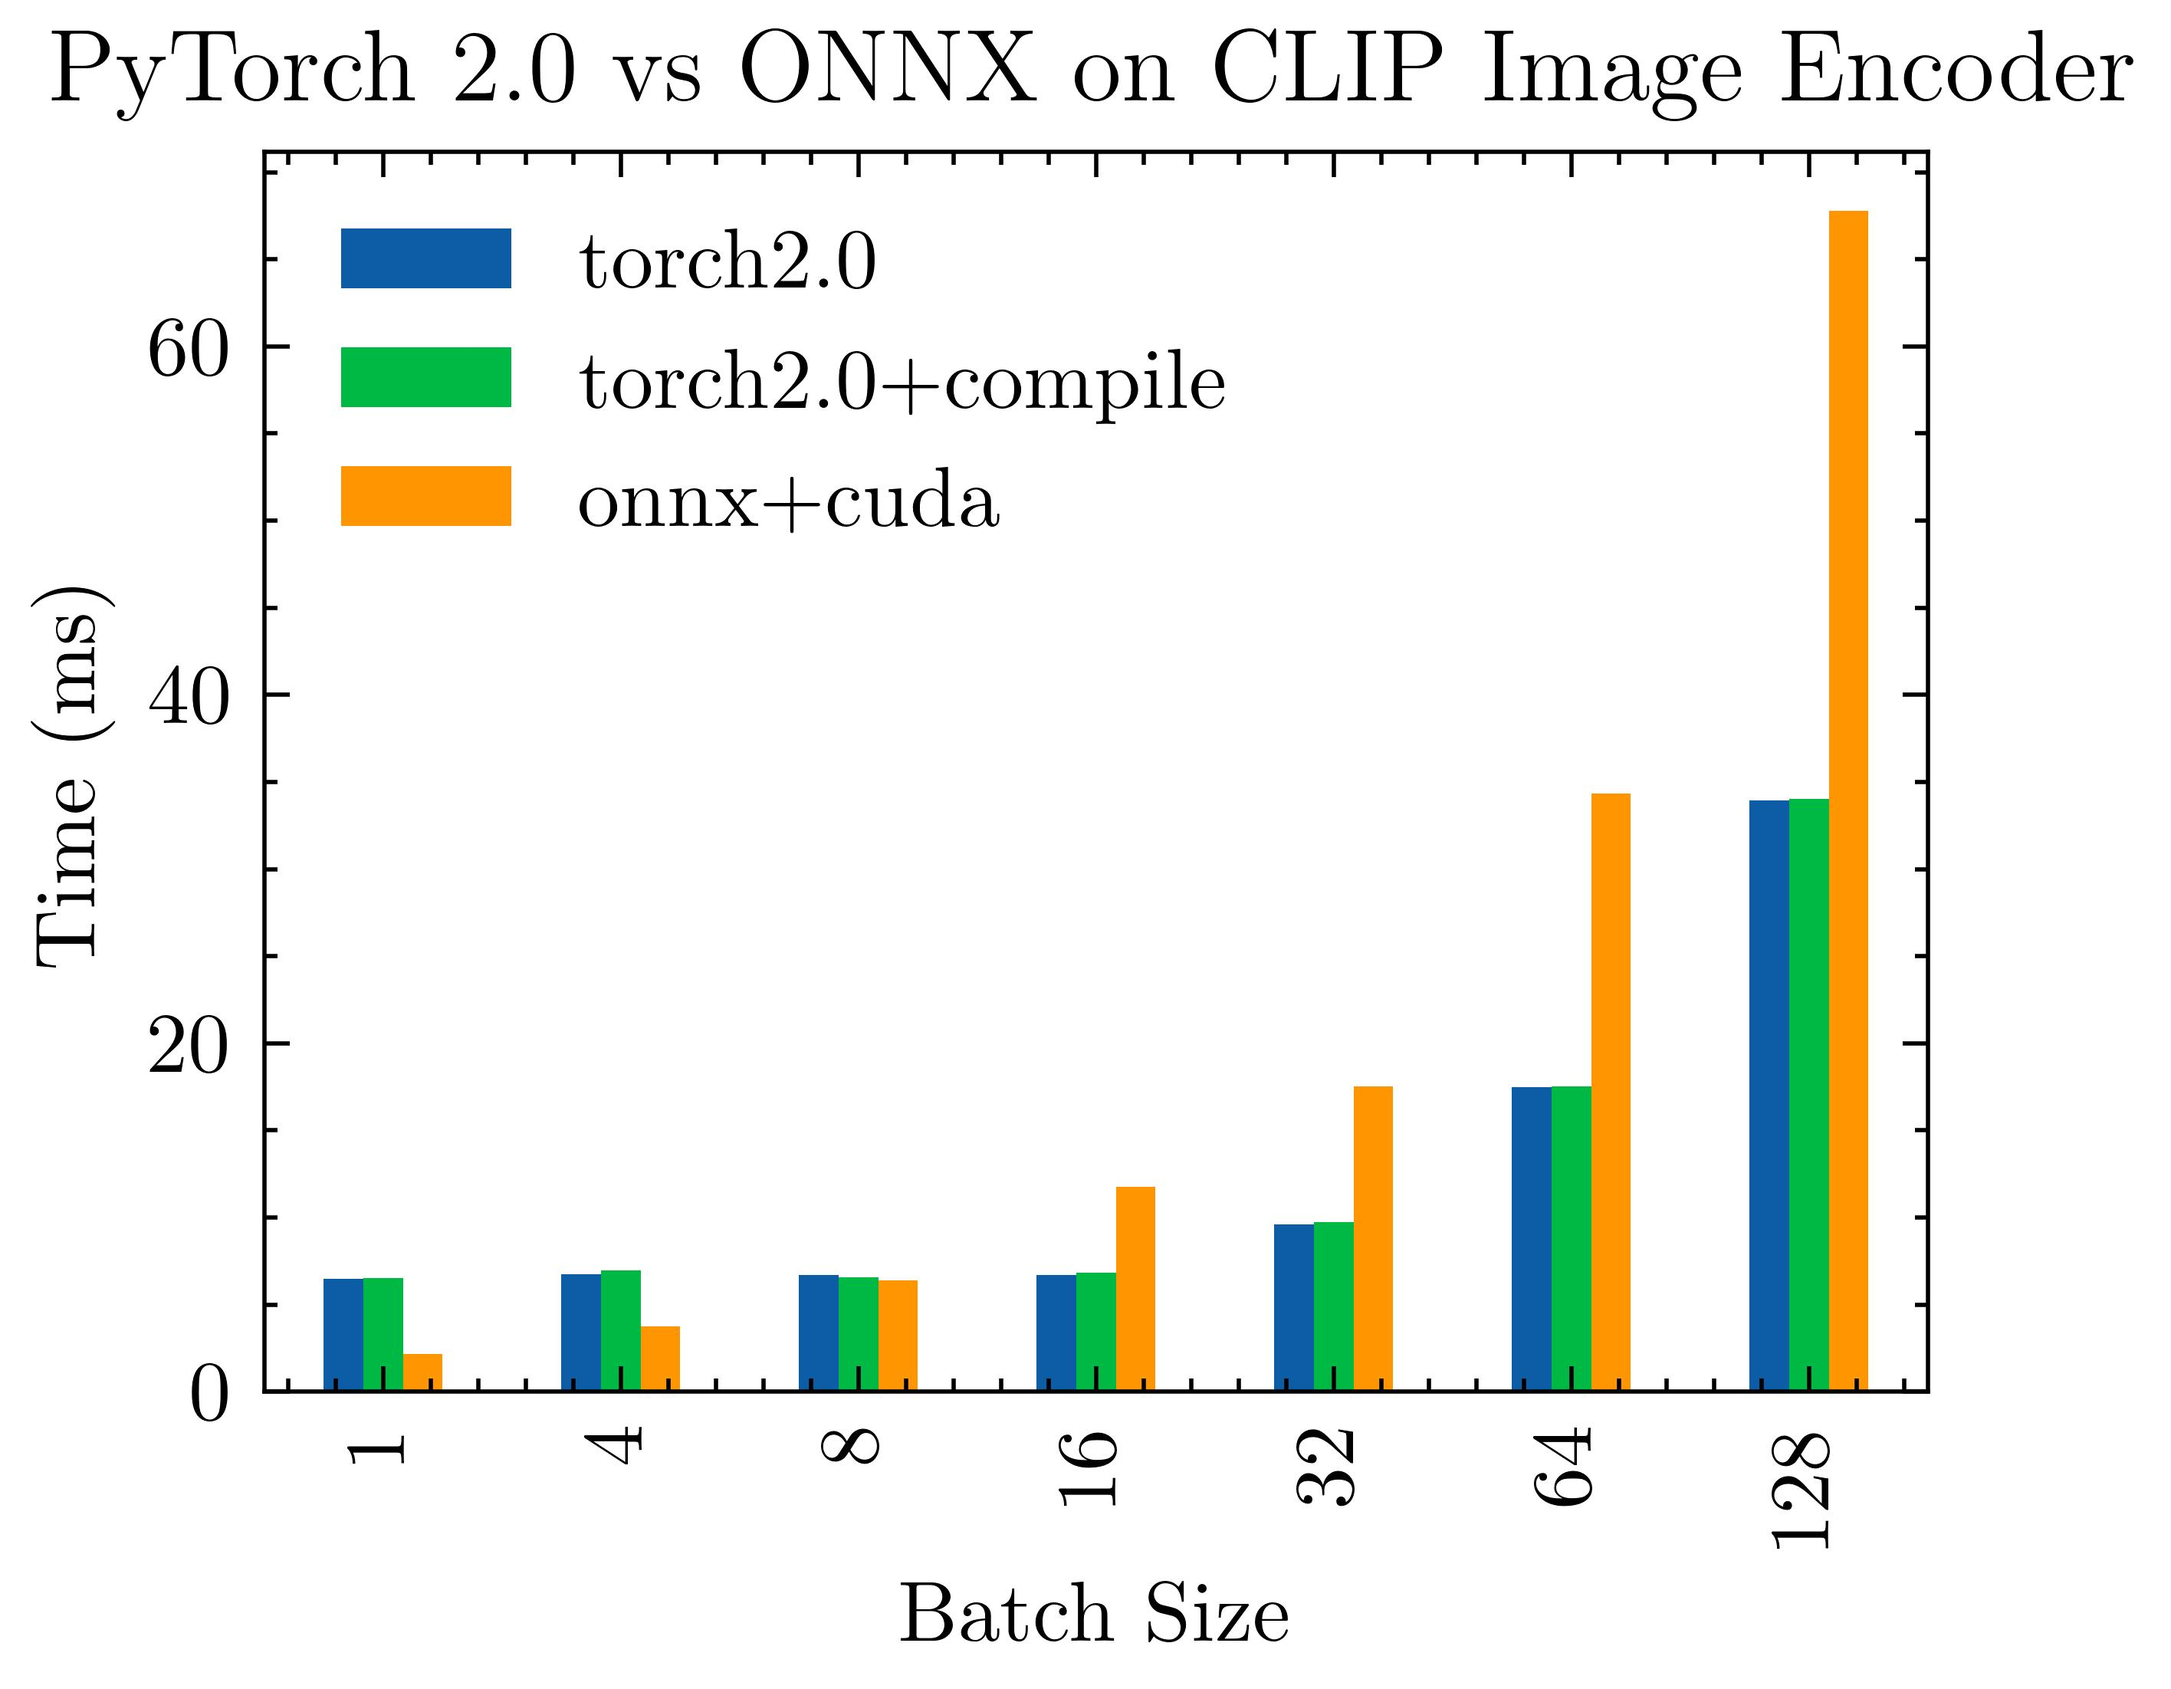
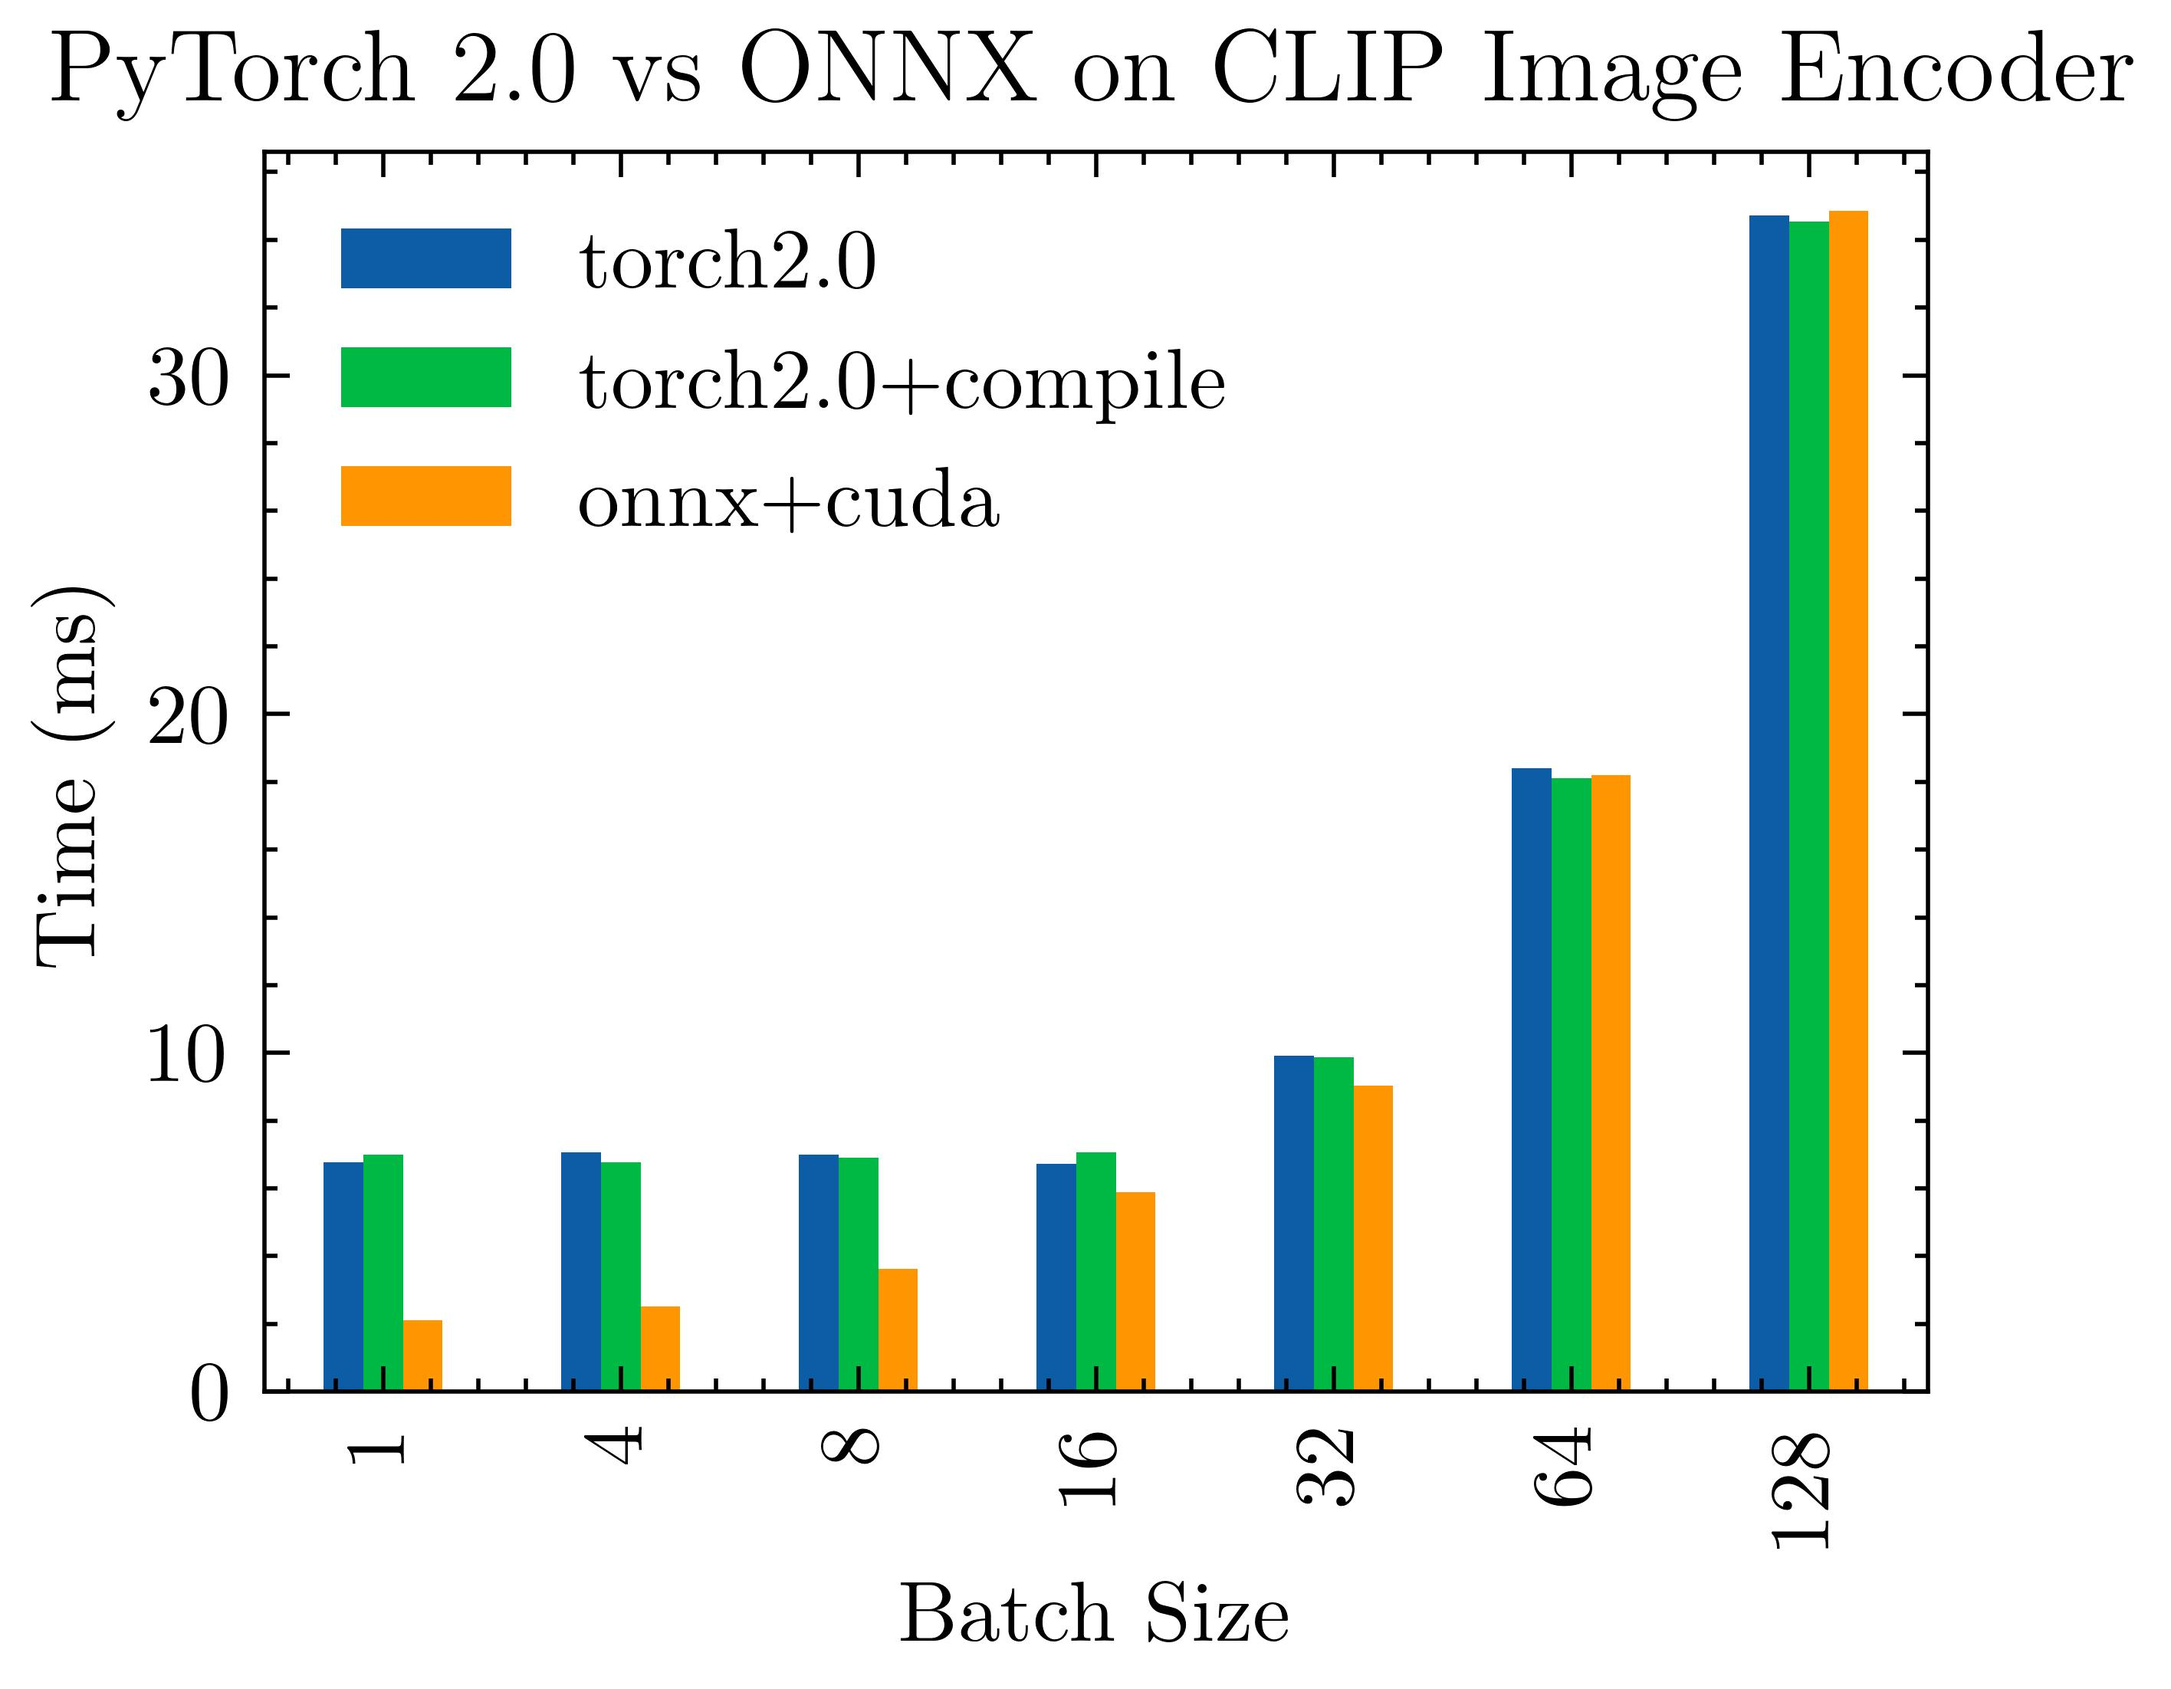
onnx now running in float16

diff --git a/src/clip_export_onnx.py b/src/clip_export_onnx.py
@@ -3,32 +3,31 @@ import onnxruntime as ort
 import torch
 
 MODEL_NAME = "ViT-B/32"
-model, preprocess = clip.load(MODEL_NAME, jit=True, device="cpu")
-
-image_encoder = model.visual
-print(preprocess)
-x = torch.randn(1, 3, 224, 224, device="cpu")
-
 model_name = "ViT-B-32.onnx"
-# # Export the model
-torch.onnx.export(
-    image_encoder,  # model being run
-    x,  # model input (or a tuple for multiple inputs)
-    model_name,  # where to save the model (can be a file or file-like object)
-    opset_version=16,
-    export_params=True,  # store the trained parameter weights inside the model file
-    do_constant_folding=True,  # whether to execute constant folding for optimization
-    input_names=["image"],  # the model's input names
-    output_names=["output"],  # the model's output names
-    dynamic_axes={
-        "image": {0: "batch_size"},  # variable length axes
-        "output": {0: "batch_size"},
-    },
-)
+model, preprocess = clip.load(MODEL_NAME, jit=False, device="cuda")
+
+with torch.autocast("cuda", dtype=torch.float16):
+    image_encoder = model.visual.eval()
+    x = torch.randn(1, 3, 224, 224, device="cuda")
+    # # Export the model
+    torch.onnx.export(
+        image_encoder,  # model being run
+        x,  # model input (or a tuple for multiple inputs)
+        model_name,  # where to save the model (can be a file or file-like object)
+        opset_version=16,
+        export_params=True,  # store the trained parameter weights inside the model file
+        do_constant_folding=True,  # whether to execute constant folding for optimization
+        input_names=["image"],  # the model's input names
+        output_names=["output"],  # the model's output names
+        dynamic_axes={
+            "image": {0: "batch_size"},  # variable length axes
+            "output": {0: "batch_size"},
+        },
+    )
 
 # let's check
 print("Checking")
-
-ort_session = ort.InferenceSession(model_name, providers=["CPUExecutionProvider"])
-outputs = ort_session.run(None, {"image": x.numpy()})
-print(outputs[0].shape)
+x = torch.randn(1, 3, 224, 224, device="cuda")
+ort_session = ort.InferenceSession(model_name, providers=["CUDAExecutionProvider"])
+outputs = ort_session.run(None, {"image": x.cpu().numpy()})
+print(outputs[0].shape, outputs[0].dtype)

diff --git a/src/main.py b/src/main.py
@@ -8,6 +8,7 @@ import onnxruntime as ort
 import pandas as pd
 import torch
 from tqdm import tqdm
+import numpy as np
 
 torch.backends.cudnn.benchmark = True
 
@@ -75,7 +76,7 @@ class ClipTorchBenchmark(Benchmark):
 
     @torch.no_grad()
     def run(self):
-        self.model.encode_image(self.image)
+        out = self.model.encode_image(self.image)
 
 
 class ClipTorchCompiledBenchmark(ClipTorchBenchmark):
@@ -100,12 +101,12 @@ class ClipOnnxBenchmark(Benchmark):
         x = torch.randn((batch_size, 3, 224, 224)).numpy()
         # see https://onnxruntime.ai/docs/api/python/api_summary.html#data-on-device
         image = ort.OrtValue.ortvalue_from_numpy(x, device_id, 0)
-        output = ort.OrtValue.ortvalue_from_shape_and_type(
-            [batch_size, 512], x.dtype, device_id, 0
+        self.output = ort.OrtValue.ortvalue_from_shape_and_type(
+            [batch_size, 512], np.float16, device_id, 0
         )
         self.io_binding = self.session.io_binding()
         self.io_binding.bind_ortvalue_input("image", image)
-        self.io_binding.bind_ortvalue_output("output", output)
+        self.io_binding.bind_ortvalue_output("output", self.output)
 
     def run(self):
         self.session.run_with_iobinding(self.io_binding)

diff --git a/README.md b/README.md
@@ -1,5 +1,8 @@
 # PyTorch 2.0 benchmark
 
+> **Warning**
+> ONNX seems to be running on float16 like it should be but I am not 100% sure
+
 [PyTorch 2.0](https://pytorch.org/get-started/pytorch-2.0/#requirements) is out, let's see how fast is `torch.compile`. We will use OpenaAI Clip since it's a very used model and **they have an jit version** so I can run it in onnx.
 
 If you think I've done something wrong, please PR 🙏
@@ -10,13 +13,13 @@ If you think I've done something wrong, please PR 🙏
 
 |   batch_size |   torch2.0 |   torch2.0+compile |   onnx+cuda |
 |-------------:|-----------:|-------------------:|------------:|
-|            1 |    6.46858 |            6.51501 |     2.15998 |
-|            4 |    6.72443 |            6.98413 |     3.73722 |
-|            8 |    6.68801 |            6.55885 |     6.36961 |
-|           16 |    6.69693 |            6.84326 |    11.7564  |
-|           32 |    9.61665 |            9.71883 |    17.5113  |
-|           64 |   17.48    |           17.5324  |    34.3329  |
-|          128 |   33.9277  |           34.0215  |    67.7727  |
+|            1 |    6.76655 |            6.99293 |     2.11856 |
+|            4 |    7.07333 |            6.7641  |     2.51977 |
+|            8 |    7.00146 |            6.91623 |     3.63718 |
+|           16 |    6.72239 |            7.07157 |     5.89697 |
+|           32 |    9.91361 |            9.88104 |     9.03549 |
+|           64 |   18.4069  |           18.1073  |    18.2092  |
+|          128 |   34.7111  |           34.538   |    34.8507  |
 
 
 All numbers in `ms`. A more detailed table (generated by the benchmark) can be found at `result.csv`
